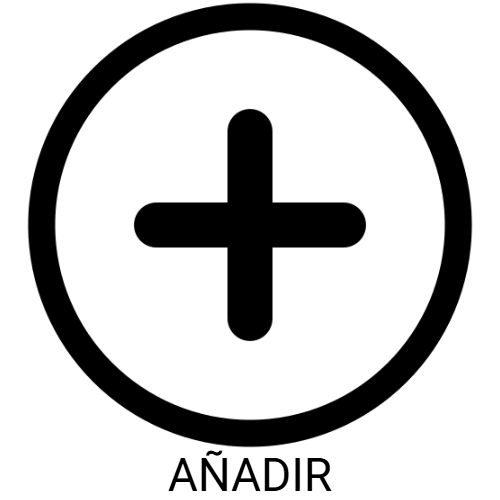
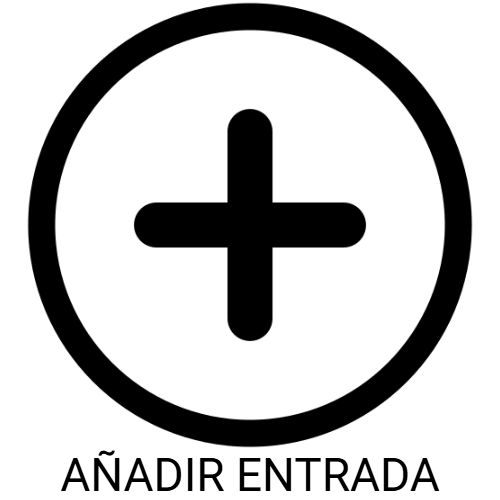
Nav-bar y actualización diaryTEA
Añadida barra de navegación a todas las vistas, y actualización de la vista diaryTEA para que se adapte a la nueva estructura.

Changed region(s): [[0.12, 0.9, 0.9, 0.99]]

diff --git a/Diseño/diaryTEA.html b/Diseño/diaryTEA.html
@@ -20,167 +20,121 @@
 </head>
 
 <body>
+    <nav class="navbar navbar-expand-lg navegacion">
+        <div class="container-fluid">
+            <button class="navbar-toggler" type="button" data-bs-toggle="collapse" data-bs-target="#navbarNav">
+                <span class="navbar-toggler-icon"></span>
+            </button>
+            <div class="collapse navbar-collapse" id="navbarNav">
+                <ul class="navbar-nav me-auto"> <!--me-auto los aline a al izq-->
+                    <li class="nav-item">
+                        <a class="nav-link" href="diaryTEA.html">
+                            <img src="images/diario.png" alt="Diario digital"
+                                class="nav-icon img-fluid navegacion-icono">
+                        </a>
+                    </li>
+                    <li class="nav-item">
+                        <a class="nav-link" href="#">
+                            <img src="images/rutinas.png" alt="Rutinas" class="img-fluid navegacion-icono">
+                        </a>
+                    </li>
+                </ul>
 
-    <div class="row justify-content-center d-flex align-items-center" id="scrollView">
-        <div class="col-lg-3 col-md-2 col-sm-6 col-xs-12" id="columnaAddDiario">
-            <div class="contanier d-flex flex-column justify-content-center align-items-center" id="addDiario">
-
-                <button type="button" class="btn" id="addRegistro">
-                    <div class="card">
-                        <img class="card-img" src="images/add.png" alt="Add" style="max-height: 100px;">
-                    </div>
-                </button>
+                <ul class="navbar-nav ms-auto"> <!--ms-auto los aline a al derecha-->
+                    <li class="nav-item">
+                        <a class="nav-link" href="#">
+                            <img src="images/add.png" alt="Añadir entrada al diario" class="img-fluid navegacion-icono">
+                        </a>
+                    </li>
+                    <li class="nav-item">
+                        <a class="nav-link" href="#">
+                            <img src="images/yo.png" alt="Mi perfils" class="img-fluid navegacion-icono">
+                        </a>
+                    </li>
+                </ul>
             </div>
         </div>
-        <div class="col-lg-3 col-md-2 col-sm-6 col-xs-12" id="columnaGuardarDiario">
-            <div class="contanier d-flex flex-column justify-content-center align-items-center" id="addDiario">
-                <button type="button" class="btn" id="buttonSaveRegistro">
-                    <div class="card">
-                        <img class="card-img" src="images/add.png" alt="Add" style="max-height: 100px;">
-                    </div>
-                </button>
-                <button type="button" class="btn" id="buttonDeleteRegistro">
-                    <a href="diaryTEA.html">
-                        <div class="card">
+    </nav>
 
-                            <img class="card-img" src="images/botonBorrar.png" alt="Add" style="max-height: 100px;">
-                        </div>
-                    </a>
-                </button>
-            </div>
-        </div>
+    <section class="container" id="columnaVistaDiario">
+        <div class="row mt-4">
+            <div class="">
+                <h1 class="mt-4 d-inline">5 de Febrero - </h1>
+                <h2 class="titulo-hora d-inline">12 AM</h2>
+                <div class="d-flex gap-3 mt-4">
+                    <div class="card tamaño-lista">
+                        <img class="card-img-top" src="images/yo.png" alt="Yo">
+                    </div>
+                    <div class="card tamaño-lista">
+                        <img class="card-img-top" src="images/enfadado.png" alt="Emoción enfado">
+                    </div>
 
-        <div class="col-lg-9 col-md-9 col-sm-6 col-xs-12 scroll-column" id="columnaVistaDiario">
-            <div class="col-lg-3 col-md-4 col-sm-6 col-xs-12 ">
-                <p>Fecha: 05 de febrero</p>
-                <p>Hora: 12 AM</p>
-                <div class="container d-flex">
-                    <div class="card">
-                        <img class="card-img" src="images/diario.png" alt="Diario digital">
+                    <div class="card tamaño-lista">
+                        <img class="card-img-top" src="images/recreo.png" alt="Recreo">
                     </div>
-                    <div class="card">
-                        <img class="card-img" src="images/rutinas.png" alt="Diario digital">
+
+                    <div class="card tamaño-lista ms-auto">
+                        <a href="register.html">
+                            <img class="card-img-top" src="images/ir.png" alt="Ver entrada del diario">
+                        </a>
                     </div>
+
                 </div>
             </div>
             <hr class="my-4 bg-success">
-            <div class="col-lg-3 col-md-4 col-sm-6 col-xs-12 ">
-                <p>Fecha: 05 de febrero</p>
-                <p>Hora: 11 AM</p>
-                <div class="container d-flex">
-                    <div class="card">
-                        <img class="card-img" src="images/diario.png" alt="Diario digital">
+
+            <div class="">
+                <h1 class="mt-4 d-inline">5 de Febrero - </h1>
+                <h2 class="titulo-hora d-inline">11 AM</h2>
+                <div class="d-flex gap-3 mt-4">
+                    <div class="card tamaño-lista">
+                        <img class="card-img-top" src="images/yo.png" alt="Yo">
                     </div>
-                    <div class="card">
-                        <img class="card-img" src="images/rutinas.png" alt="Diario digital">
+                    <div class="card tamaño-lista">
+                        <img class="card-img-top" src="images/confusión.png" alt="Emoción confusión">
                     </div>
+
+                    <div class="card tamaño-lista">
+                        <img class="card-img-top" src="images/galletas.png" alt="galletas">
+                    </div>
+
+                    <div class="card tamaño-lista ms-auto">
+                        <a href="register.html">
+                            <img class="card-img-top" src="images/ir.png" alt="Ver entrada del diario">
+                        </a>
+                    </div>
+
                 </div>
             </div>
             <hr class="my-4 bg-success">
-            <div class="col-lg-3 col-md-4 col-sm-6 col-xs-12 ">
-                <div class="col-auto">
-                    <p>Fecha: 05 de febrero</p>
-                    <p>Hora: 10 AM</p>
-                    <div class="container d-flex">
-                        <div class="card">
-                            <img class="card-img" src="images/diario.png" alt="Diario digital">
-                        </div>
-                        <div class="card">
-                            <img class="card-img" src="images/rutinas.png" alt="Diario digital">
-                        </div>
+
+            <div class="">
+                <h1 class="mt-4 d-inline">4 de Febrero - </h1>
+                <h2 class="titulo-hora d-inline">13 AM</h2>
+                <div class="d-flex gap-3 mt-4">
+                    <div class="card tamaño-lista">
+                        <img class="card-img-top" src="images/yo.png" alt="Yo">
                     </div>
+                    <div class="card tamaño-lista">
+                        <img class="card-img-top" src="images/confusión.png" alt="Emoción confusión">
+                    </div>
+
+                    <div class="card tamaño-lista">
+                        <img class="card-img-top" src="images/galletas.png" alt="galletas">
+                    </div>
+
+                    <div class="card tamaño-lista ms-auto">
+                        <a href="register.html">
+                            <img class="card-img-top" src="images/ir.png" alt="Ver entrada del diario">
+                        </a>
+                    </div>
+
                 </div>
             </div>
             <hr class="my-4 bg-success">
-            <div class="col-lg-3 col-md-4 col-sm-6 col-xs-12 ">
-                <p>Fecha: 05 de febrero</p>
-                <p>Hora: </p>
-                <div class="container d-flex">
-                    <div class="card">
-                        <img class="card-img" src="images/diario.png" alt="Diario digital">
-                    </div>
-                    <div class="card">
-                        <img class="card-img" src="images/rutinas.png" alt="Diario digital">
-                    </div>
-                    <hr class="my-4 bg-success">
-                </div>
-            </div>
-            <hr class="my-4 bg-success">
-            <div class="col-lg-3 col-md-4 col-sm-6 col-xs-12">
-                <p>Fecha: 01 de febrero</p>
-                <div class="container d-flex">
-                    <div class="card">
-                        <img class="card-img" src="images/diario.png" alt="Diario digital">
-                    </div>
-                    <div class="card">
-                        <img class="card-img" src="images/rutinas.png" alt="Diario digital">
-                    </div>
-                    <hr class="my-4 bg-success">
-                </div>
-            </div>
         </div>
-        <div class="col-lg-9 col-md-9 col-sm-6 col-xs-12 scroll-column mr-1" id="columnaFormDiario">
+    </section>
 
-            <form>
-                <div class="form-group">
-                    <label for="fecha">Fecha</label>
-                    <input type="date" class="form-control" id="fecha" name="fecha">
-                </div>
-                <div class="form-group">
-                    <label for="hora">Hora</label>
-                    <input type="time" class="form-control" id="hora" name="hora">
-                </div>
-                <div class="form-check">
-                    <input type="checkbox" class="form-check-input" id="asociarRutina" name="asociarRutina">
-                    <label class="form-check-label" for="asociarRutina">Asociar a una rutina</label>
-                </div>
-                <div id="selectRutinaContainer"></div>
-            </form>
-
-
-            <h5>Emociones</h5>
-            <div class="container d-flex">
-                <div class="card">
-                    <img class="card-img" src="images/confusión.png" alt="Diario digital">
-                </div>
-                <div class="card">
-                    <img class="card-img" src="images/enfadado.png" alt="Diario digital">
-                </div>
-                <div class="card">
-                    <img class="card-img" src="images/triste.png" alt="Diario digital">
-                </div>
-            </div>
-            <h5>Tarjetas de comunicación</h5>
-            <div class="container d-flex">
-                <div class="card">
-                    <img class="card-img" src="images/diario.png" alt="Diario digital">
-                </div>
-                <div class="card">
-                    <img class="card-img" src="images/rutinas.png" alt="Diario digital">
-                </div>
-
-                <div class="card">
-                    <img class="card-img" src="images/galletas.png" alt="Diario digital">
-                </div>
-                <div class="card">
-                    <img class="card-img" src="images/recreo.png" alt="Diario digital">
-                </div>
-                <div class="card">
-                    <img class="card-img" src="images/yo.png" alt="Diario digital">
-                </div>
-            </div>
-
-
-            <h5>Tablero</h5>
-            <div class="container d-flex mt-3" id="contenedorPictogramas"
-                style="border: 2px solid black; border-radius: 3px;">
-
-            </div>
-        </div>
-    </div>
-
-
-    <script src="/Diseño/js/addRegistros.js"></script>
 </body>
 
 </html>

diff --git a/Diseño/register.html b/Diseño/register.html
@@ -16,8 +16,42 @@
 </head>
 
 <body>
+    <nav class="navbar navbar-expand-lg navegacion">
+        <div class="container-fluid">
+            <button class="navbar-toggler" type="button" data-bs-toggle="collapse" data-bs-target="#navbarNav">
+                <span class="navbar-toggler-icon"></span>
+            </button>
+            <div class="collapse navbar-collapse" id="navbarNav">
+                <ul class="navbar-nav me-auto"> <!--me-auto los aline a al izq-->
+                    <li class="nav-item">
+                        <a class="nav-link" href="diaryTEA.html">
+                            <img src="images/diario.png" alt="Diario digital" class="nav-icon img-fluid navegacion-icono">
+                        </a>
+                    </li>
+                    <li class="nav-item">
+                        <a class="nav-link" href="#">
+                            <img src="images/rutinas.png" alt="Rutinas" class="img-fluid navegacion-icono">
+                        </a>
+                    </li>
+                </ul>
+                
+                <ul class="navbar-nav ms-auto"> <!--ms-auto los aline a al derecha-->
+                    <li class="nav-item">
+                        <a class="nav-link" href="#">
+                            <img src="images/add.png" alt="Añadir entrada al diario" class="img-fluid navegacion-icono">
+                        </a>
+                    </li>
+                    <li class="nav-item">
+                        <a class="nav-link" href="#">
+                            <img src="images/yo.png" alt="Mi perfils" class="img-fluid navegacion-icono">
+                        </a>
+                    </li>
+                </ul>
+            </div>
+        </div>
+    </nav>
     <div class="container">
-        <h1 class="mt-5">05 de febrero a las 12 AM</h1>
+        <h1 class="mt-5">5 de febrero a las 12 AM</h1>
         <div class="row mt-5">
             <div class="col-lg-2 col-md-3 col-sm-5 col-xs-6">
                 <div class="card">

diff --git a/Diseño/css/indexStyle.css b/Diseño/css/indexStyle.css
@@ -34,18 +34,10 @@ html, body{
     padding: 1em;
 }
 
-.card {
-    max-width: 120px; /* Ajusta según necesidad */
-    max-height: 120px; /* Ajusta según necesidad */
-    display: flex;
-    align-items: center;
-    justify-content: center;
-}
-
 .card img {
-    width: 100%; /* Ajusta el ancho de la imagen */
-    height: 100%; /* Ajusta la altura de la imagen */
-    object-fit: cover; /* Recorta la imagen para ajustarse sin deformarse */
+    width: 100%;
+    height: 100%;
+    object-fit: cover;
 }
 
 .cross-icon {
@@ -65,4 +57,25 @@ html, body{
 #contenedorPictogramas .card:hover .cross-icon{
     display: block;
     
+}
+
+.navegacion{
+    background-color: #a7a6a6;
+}
+
+.navegacion-icono {
+    width: 6em; 
+    height: 6em;
+    object-fit: contain;
+}
+
+.titulo-hora{
+    font-size: 1.5em;
+}
+
+
+.tamaño-lista {
+    width: 7em; 
+    height: 7em;
+    object-fit: contain;
 }
